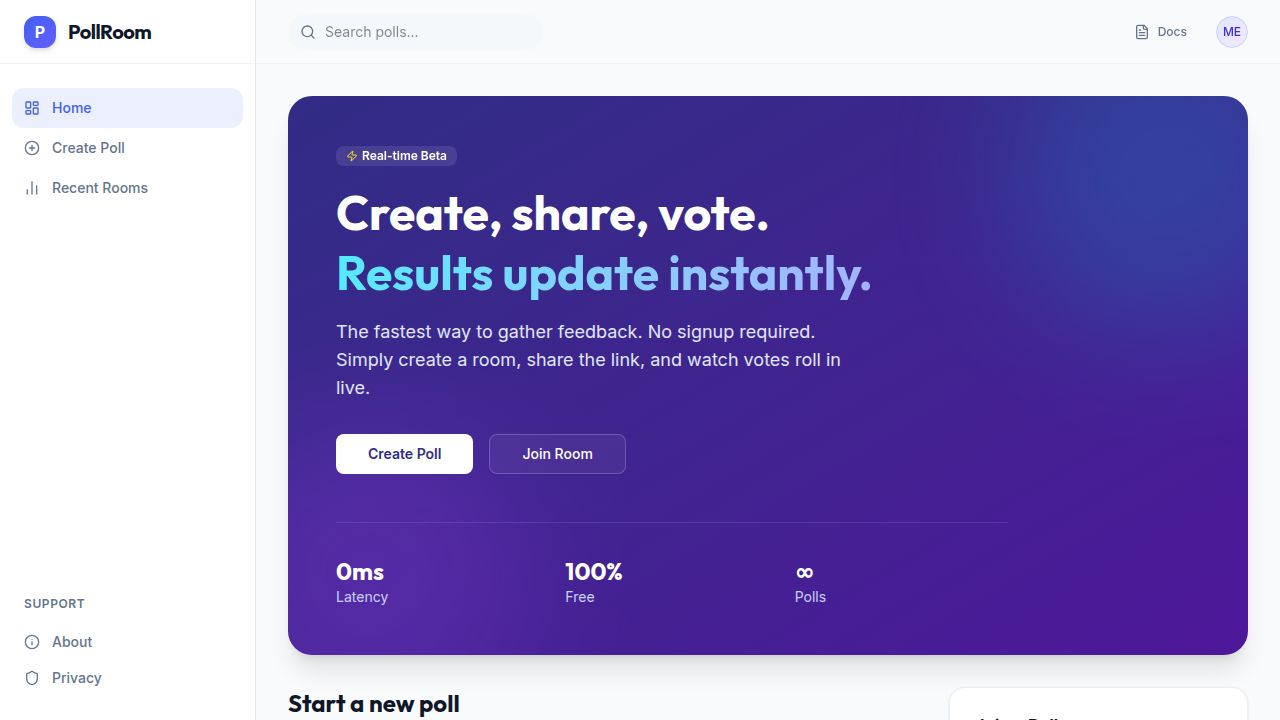
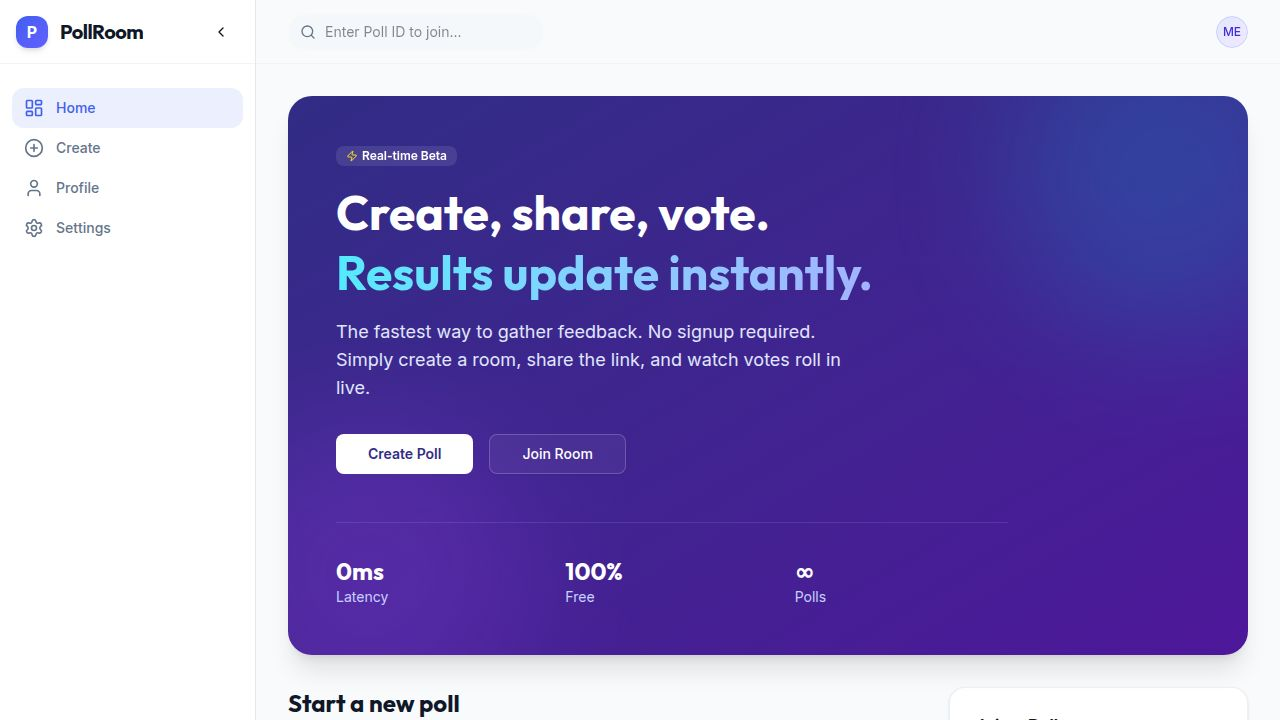
Implement collapsible desktop sidebar and mobile bottom navigation
Refactors AppShell to introduce a collapsible desktop sidebar with localStorage persistence and a mobile-first bottom navigation bar, separating navigation logic into dedicated components and a custom hook.

Replit-Commit-Author: Agent
Replit-Commit-Session-Id: 4b630ac3-467e-4c58-a1b4-697f45010ce2
Replit-Commit-Checkpoint-Type: full_checkpoint
Replit-Commit-Event-Id: ad840975-f8a6-425a-8a3d-923be64ebc4a
Replit-Commit-Screenshot-Url: https://storage.googleapis.com/screenshot-production-us-central1/5e2b932c-8f1a-478b-954d-a66ac2aa3cae/4b630ac3-467e-4c58-a1b4-697f45010ce2/Rcqxv2h
Replit-Helium-Checkpoint-Created: true

diff --git a/client/src/components/layout/AppShell.tsx b/client/src/components/layout/AppShell.tsx
@@ -1,42 +1,19 @@
 import { ReactNode, useState } from "react";
-import { Link, useLocation } from "wouter";
-import { 
-  LayoutDashboard, 
-  PlusCircle, 
-  BarChart2, 
-  Info, 
-  Shield, 
-  Search, 
-  Menu,
-  X,
-  User,
-  Home as HomeIcon,
-  Plus
-} from "lucide-react";
-import { Button } from "@/components/ui/button";
+import { useLocation, Link } from "wouter";
+import { Search, Menu } from "lucide-react";
 import { cn } from "@/lib/utils";
-import { useIsMobile } from "@/hooks/use-mobile";
+import { useSidebarState } from "@/hooks/use-sidebar-state";
+import { DesktopSidebar } from "./DesktopSidebar";
+import { MobileBottomNav } from "./MobileBottomNav";
 
 interface AppShellProps {
   children: ReactNode;
 }
 
 export default function AppShell({ children }: AppShellProps) {
-  const [location, setLocation] = useLocation();
-  const [mobileMenuOpen, setMobileMenuOpen] = useState(false);
+  const [, setLocation] = useLocation();
   const [searchQuery, setSearchQuery] = useState("");
-  const isMobile = useIsMobile();
-
-  const navItems = [
-    { label: "Home", icon: LayoutDashboard, href: "/" },
-    { label: "Create Poll", icon: PlusCircle, href: "/create" },
-    { label: "Profile", icon: User, href: "/profile" },
-  ];
-
-  const secondaryNav = [
-    { label: "About", icon: Info, href: "/about" },
-    { label: "Privacy", icon: Shield, href: "/privacy" },
-  ];
+  const { isCollapsed, toggleSidebar } = useSidebarState();
 
   const handleSearch = (e: React.FormEvent) => {
     e.preventDefault();
@@ -48,88 +25,22 @@ export default function AppShell({ children }: AppShellProps) {
 
   return (
     <div className="flex min-h-screen bg-background text-foreground font-sans">
-      {/* Mobile Sidebar Overlay */}
-      {mobileMenuOpen && (
-        <div 
-          className="fixed inset-0 z-40 bg-black/50 backdrop-blur-xs md:hidden"
-          onClick={() => setMobileMenuOpen(false)}
-        />
-      )}
+      {/* Desktop Sidebar */}
+      <DesktopSidebar isCollapsed={isCollapsed} toggleSidebar={toggleSidebar} />
 
-      {/* Sidebar (Desktop) */}
-      <aside 
+      {/* Main Content Area */}
+      <div 
         className={cn(
-          "fixed inset-y-0 left-0 z-50 w-64 border-r border-sidebar-border bg-sidebar transition-transform duration-300 md:translate-x-0",
-          mobileMenuOpen ? "translate-x-0" : "-translate-x-full"
+          "flex-1 flex flex-col transition-all duration-300 ease-in-out",
+          "md:pl-[var(--sidebar-width)]"
         )}
+        style={{ 
+          "--sidebar-width": isCollapsed ? "64px" : "256px" 
+        } as React.CSSProperties}
       >
-        <div className="flex h-16 items-center px-6 border-b border-sidebar-border/50">
-          <div className="h-8 w-8 rounded-lg bg-gradient-to-br from-primary to-indigo-500 mr-3 flex items-center justify-center text-white font-bold shadow-md">
-            P
-          </div>
-          <span className="text-xl font-display font-bold tracking-tight">PollRoom</span>
-          <Button 
-            variant="ghost" 
-            size="icon" 
-            className="ml-auto md:hidden" 
-            onClick={() => setMobileMenuOpen(false)}
-          >
-            <X className="h-5 w-5" />
-          </Button>
-        </div>
-
-        <div className="flex flex-col h-[calc(100vh-4rem)] justify-between py-6 px-3">
-          <nav className="space-y-1">
-            {navItems.map((item) => (
-              <Link key={item.href} href={item.href}>
-                <a 
-                  className={cn(
-                    "flex items-center gap-3 px-3 py-2.5 rounded-lg text-sm font-medium transition-colors",
-                    location === item.href 
-                      ? "bg-primary/10 text-primary" 
-                      : "text-muted-foreground hover:bg-secondary hover:text-foreground"
-                  )}
-                  onClick={() => setMobileMenuOpen(false)}
-                >
-                  <item.icon className="h-4 w-4" />
-                  {item.label}
-                </a>
-              </Link>
-            ))}
-          </nav>
-
-          <nav className="space-y-1 mt-auto">
-             <div className="px-3 py-2 text-xs font-semibold text-muted-foreground uppercase tracking-wider">
-               Support
-             </div>
-            {secondaryNav.map((item) => (
-              <Link key={item.href} href={item.href}>
-                <a 
-                  className={cn(
-                    "flex items-center gap-3 px-3 py-2 rounded-lg text-sm font-medium transition-colors text-muted-foreground hover:bg-secondary hover:text-foreground"
-                  )}
-                  onClick={() => setMobileMenuOpen(false)}
-                >
-                  <item.icon className="h-4 w-4" />
-                  {item.label}
-                </a>
-              </Link>
-            ))}
-          </nav>
-        </div>
-      </aside>
-
-      {/* Main Content */}
-      <div className="flex-1 flex flex-col md:pl-64 transition-all duration-300">
         {/* Topbar */}
         <header className="sticky top-0 z-30 h-16 border-b border-border/40 bg-background/80 backdrop-blur-md px-4 sm:px-8 flex items-center justify-between">
           <div className="flex items-center gap-4">
-            <button 
-              className="md:hidden p-2 -ml-2 text-muted-foreground hover:text-foreground"
-              onClick={() => setMobileMenuOpen(true)}
-            >
-              <Menu className="h-6 w-6" />
-            </button>
             <form onSubmit={handleSearch} className="relative hidden sm:block max-w-md w-64">
               <Search className="absolute left-3 top-1/2 -translate-y-1/2 h-4 w-4 text-muted-foreground" />
               <input 
@@ -158,27 +69,7 @@ export default function AppShell({ children }: AppShellProps) {
       </div>
 
       {/* Mobile Bottom Navigation */}
-      <nav className="fixed bottom-0 left-0 right-0 z-50 h-16 bg-background/80 backdrop-blur-lg border-t border-border/40 flex items-center justify-around md:hidden px-4">
-        <Link href="/">
-          <a className={cn("flex flex-col items-center gap-1", location === "/" ? "text-primary" : "text-muted-foreground")}>
-            <HomeIcon className="h-5 w-5" />
-            <span className="text-[10px] font-medium">Home</span>
-          </a>
-        </Link>
-        <Link href="/create">
-          <div className="relative -top-4">
-            <div className="h-12 w-12 rounded-full bg-primary flex items-center justify-center text-white shadow-lg shadow-primary/30 border-4 border-background">
-              <Plus className="h-6 w-6" />
-            </div>
-          </div>
-        </Link>
-        <Link href="/profile">
-          <a className={cn("flex flex-col items-center gap-1", location === "/profile" ? "text-primary" : "text-muted-foreground")}>
-            <User className="h-5 w-5" />
-            <span className="text-[10px] font-medium">Profile</span>
-          </a>
-        </Link>
-      </nav>
+      <MobileBottomNav />
     </div>
   );
 }

diff --git a/client/src/components/layout/DesktopSidebar.tsx b/client/src/components/layout/DesktopSidebar.tsx
@@ -1,0 +1,78 @@
+import { Link, useLocation } from "wouter";
+import { cn } from "@/lib/utils";
+import { 
+  LayoutDashboard, 
+  PlusCircle, 
+  User, 
+  Search, 
+  Settings,
+  ChevronLeft,
+  ChevronRight
+} from "lucide-react";
+import { Button } from "@/components/ui/button";
+
+export const navItems = [
+  { key: "home", label: "Home", to: "/", icon: LayoutDashboard },
+  { key: "create", label: "Create", to: "/create", icon: PlusCircle },
+  { key: "profile", label: "Profile", to: "/profile", icon: User },
+  { key: "settings", label: "Settings", to: "/privacy", icon: Settings },
+];
+
+interface DesktopSidebarProps {
+  isCollapsed: boolean;
+  toggleSidebar: () => void;
+}
+
+export function DesktopSidebar({ isCollapsed, toggleSidebar }: DesktopSidebarProps) {
+  const [location] = useLocation();
+
+  return (
+    <aside 
+      className={cn(
+        "fixed inset-y-0 left-0 z-50 border-r border-sidebar-border bg-sidebar transition-all duration-300 ease-in-out hidden md:flex flex-col",
+        isCollapsed ? "w-16" : "w-64"
+      )}
+    >
+      <div className="flex h-16 items-center px-4 border-b border-sidebar-border/50 overflow-hidden shrink-0">
+        <div className="h-8 w-8 rounded-lg bg-gradient-to-br from-primary to-indigo-500 flex items-center justify-center text-white font-bold shadow-md shrink-0">
+          P
+        </div>
+        {!isCollapsed && (
+          <span className="ml-3 text-xl font-display font-bold tracking-tight truncate">PollRoom</span>
+        )}
+        <Button 
+          variant="ghost" 
+          size="icon" 
+          className={cn("ml-auto", isCollapsed && "mx-auto")} 
+          onClick={toggleSidebar}
+          aria-label={isCollapsed ? "Expand sidebar" : "Collapse sidebar"}
+        >
+          {isCollapsed ? <ChevronRight className="h-4 w-4" /> : <ChevronLeft className="h-4 w-4" />}
+        </Button>
+      </div>
+
+      <nav className="flex-1 py-6 px-3 space-y-1 overflow-y-auto">
+        {navItems.map((item) => {
+          const active = location === item.to;
+          return (
+            <Link key={item.key} href={item.to}>
+              <a 
+                title={isCollapsed ? item.label : undefined}
+                className={cn(
+                  "flex items-center gap-3 px-3 py-2.5 rounded-lg text-sm font-medium transition-colors group",
+                  active 
+                    ? "bg-primary/10 text-primary" 
+                    : "text-muted-foreground hover:bg-secondary hover:text-foreground",
+                  isCollapsed && "justify-center px-0"
+                )}
+              >
+                <item.icon className={cn("h-5 w-5 shrink-0", active ? "text-primary" : "group-hover:text-foreground")} />
+                {!isCollapsed && <span className="truncate">{item.label}</span>}
+              </a>
+            </Link>
+          );
+        })}
+      </nav>
+    </aside>
+  );
+}

diff --git a/client/src/components/layout/MobileBottomNav.tsx b/client/src/components/layout/MobileBottomNav.tsx
@@ -1,0 +1,26 @@
+import { Link, useLocation } from "wouter";
+import { cn } from "@/lib/utils";
+import { navItems } from "./DesktopSidebar";
+
+export function MobileBottomNav() {
+  const [location] = useLocation();
+
+  return (
+    <nav className="fixed bottom-0 left-0 right-0 z-50 h-16 bg-background/80 backdrop-blur-lg border-t border-border/40 flex items-center justify-around md:hidden px-4 pb-[env(safe-area-inset-bottom)]">
+      {navItems.map((item) => {
+        const active = location === item.to;
+        return (
+          <Link key={item.key} href={item.to}>
+            <a className={cn(
+              "flex flex-col items-center gap-1 transition-colors",
+              active ? "text-primary" : "text-muted-foreground"
+            )}>
+              <item.icon className="h-5 w-5" />
+              <span className="text-[10px] font-medium">{item.label}</span>
+            </a>
+          </Link>
+        );
+      })}
+    </nav>
+  );
+}

diff --git a/client/src/hooks/use-sidebar-state.ts b/client/src/hooks/use-sidebar-state.ts
@@ -1,0 +1,17 @@
+import { useState, useEffect } from "react";
+
+export function useSidebarState() {
+  const [isCollapsed, setIsCollapsed] = useState(() => {
+    if (typeof window === "undefined") return false;
+    const saved = localStorage.getItem("ui.sidebarCollapsed");
+    return saved ? JSON.parse(saved) : false;
+  });
+
+  useEffect(() => {
+    localStorage.setItem("ui.sidebarCollapsed", JSON.stringify(isCollapsed));
+  }, [isCollapsed]);
+
+  const toggleSidebar = () => setIsCollapsed((prev: boolean) => !prev);
+
+  return { isCollapsed, toggleSidebar };
+}
